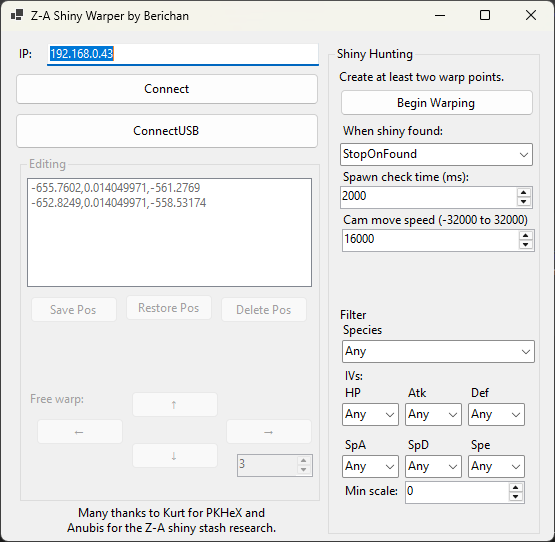
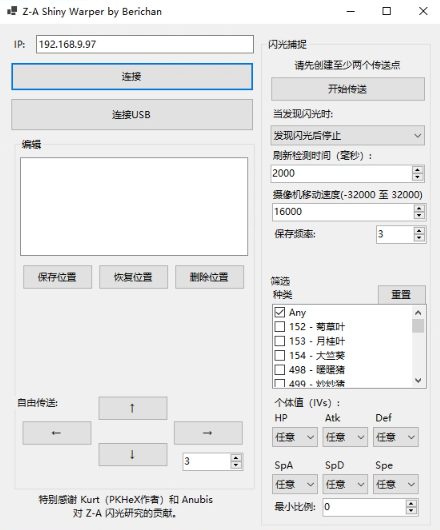
Update CN README.md

diff --git a/README.md b/README.md
@@ -1,40 +1,56 @@
 # ZA Shiny Warper
-For warping or shiny hunting with your character in Pokemon Legends: Z-A.
 
-Requires a hacked Switch console running either [sys-botbase](https://github.com/olliz0r/sys-botbase/releases) or [usb-botbase](https://github.com/Koi-3088/USB-Botbase/releases).
+用于在 **《宝可梦传说：Z-A》** 中进行角色**传送（Warping）**或**闪光猎捕（Shiny Hunting）** 的工具。
+
+> ⚠ 需要一台运行 [sys-botbase](https://github.com/olliz0r/sys-botbase/releases) 或 [usb-botbase](https://github.com/Koi-3088/USB-Botbase/releases) 的已破解 Nintendo Switch 主机.
 
 ![Main window](ZAShinyWarper_Window.png?raw=true "The program itself")
 ![Success window](ZAShinyWarper_Success.png?raw=true "Finding a shiny")
 
-### Shiny hunting setup
-1) Ensure you have sys-botbase or an equivalent installed on your Switch running atmosphere, then create a save backup using something like JKSV.
-2) Open the program and connect to your console. You'll see all your "stashed" shinies.
-3) Find one or more nearby Pokemon spawn locations, for each one press "Set Pos", move away from it a little, then press "Restore Pos" to verify that it is a stable position.
-4) Set a final position nearby that is considered "safe" with little to no spawns, where you can easily save, and do the same.
-5) Optionally set any filters for the shiny Pokemon you want. I recommend keeping everything unchanged for now while the software is new.
-6) Press "Begin Warping"
+## ⚙ 闪光猎捕设置步骤
+1) 确保你的 Switch 正在运行 Atmosphère，并已安装 sys-botbase 或类似工具，然后使用 **JKSV** 等软件创建游戏存档备份。  
+2) 打开本程序并连接到主机，你将看到所有“已储存的闪光宝可梦（stashed shinies）”。  
+3) 找到一个或多个附近的宝可梦刷新点（spawn locations）：  
+   - 对于每个位置，点击 **「Set Pos（设置位置）」**；  
+   - 然后稍微离开该区域；  
+   - 再点击 **「Restore Pos（恢复位置）」** 来验证该位置是否稳定。  
+4) 设置一个最终的「安全位置」，应靠近但几乎没有宝可梦刷新、可以方便保存游戏的地方，并进行同样的验证。  
+5) （可选）设置想要寻找的闪光宝可梦筛选条件。建议在软件初期阶段保持默认不变。
+6) 点击 **「Begin Warping（开始传送）」**。
 
-The program will now rotate the camera and warp between all your locations 10 times, then save to populate the "shiny stash". It will then read from the shiny stash and pause the game and show a message if a shiny is found. You must go and catch the shiny yourself, this tool cannot do that.
-If a shiny is not found, it will automatically loop again until one is found or you press the button to stop the shiny hunting routine.
+程序将执行以下操作：
 
-All shiny Pokemon from your stash are saved in their incomplete "wild" format in the StashedShinies folder.
+- 旋转相机并在所有记录的位置间传送 10 次；  
+- 然后保存游戏以生成“闪光储藏”（shiny stash）。
+- 
+接着它会读取储藏数据，如果检测到闪光宝可梦，则会**暂停游戏并显示提示**。
 
-### Known issues
-* The memory pointers I found for this project are reliable, but there are more ideal ones present, especially for shiny stashing which does not require saving the game, more research is required for finding this.
-* Sometimes your character goes flying into the air, the bot will fix that itself.
-* If one of your positions are in a battle zone, the bot will eventually show you an error that it was unable to warp.
-* The code is ugly.
-* The tool saves non-complete Pokemon data as PK9 files instead of the Z-A filetype until PKHeX is released to support the game.
+> ⚠ 你需要亲自去捕捉闪光宝可梦，本工具不会自动捕捉。  
 
-### Other use-cases
-* Warping to places nearby.
-* Falling off or warping back on top of buildings multiple times.
-* Warping into the geometry and [falling through the map to your inevitable doom.](https://x.com/berichandev/status/1980471677659279623) This always happens when warping too far away due to the collision LODing.
+若未找到闪光，程序会自动循环执行，直到找到闪光或你手动停止。
 
-Rundown video: https://youtu.be/eKydGGQbS_0 
+所有从“闪光储藏”中发现的宝可梦都会以**未完成（野生状态）**的形式保存到 `StashedShinies` 文件夹中。
 
-# Attributions
+## 🧩 已知问题
 
-Leverages PKHeX nuget and sys-botbase interfacing built upon [NHSE.Injection](https://github.com/kwsch/NHSE) by [Kurt](https://github.com/kwsch).
-Thanks to Anubis for [this research tweet](https://x.com/Sibuna_Switch/status/1980306261213393163) that gave me a starting point.
-Thanks to Olliz0r, Koi, and FishGuy for all the interfacing tools.
+- 本项目使用的内存指针目前较为稳定，但仍存在更理想的指针位置，尤其是在无需保存游戏即可进行闪光储藏的情况下——这部分还需要进一步研究。  
+- 有时角色可能会**飞上天**，机器人会自动修复这一问题。  
+- 如果某个位置位于**战斗区域**，机器人最终会提示无法传送的错误。  
+- 代码写得很乱（原作者自嘲 😅）。  
+- 在 PKHeX 尚未支持《Z-A》之前，工具会将宝可梦数据保存为 `.PK9` 文件，而非 Z-A 专用格式。
+
+## 🧭 其他用途
+
+- 快速传送到附近位置。  
+- 多次从建筑上掉下或传送回屋顶。  
+- 传送进地图几何结构内并[掉出地图走向“必然的毁灭”](https://x.com/berichandev/status/1980471677659279623)（由于碰撞体加载距离问题，过远传送时必然会发生）。
+
+🎥 演示视频：[https://youtu.be/eKydGGQbS_0](https://youtu.be/eKydGGQbS_0)
+
+## 🙏 致谢
+
+本项目基于 [Kurt](https://github.com/kwsch) 的 [NHSE.Injection](https://github.com/kwsch/NHSE) 构建，并使用 **PKHeX nuget** 与 **sys-botbase 接口**。  
+感谢 **Anubis** 的[研究推文](https://x.com/Sibuna_Switch/status/1980306261213393163)，为本项目提供了起点。  
+感谢 **Olliz0r、Koi** 和 **FishGuy** 提供的接口工具支持。
+
+本人项目仅进行汉化工作，项目作者：[berichan](https://github.com/berichan)
